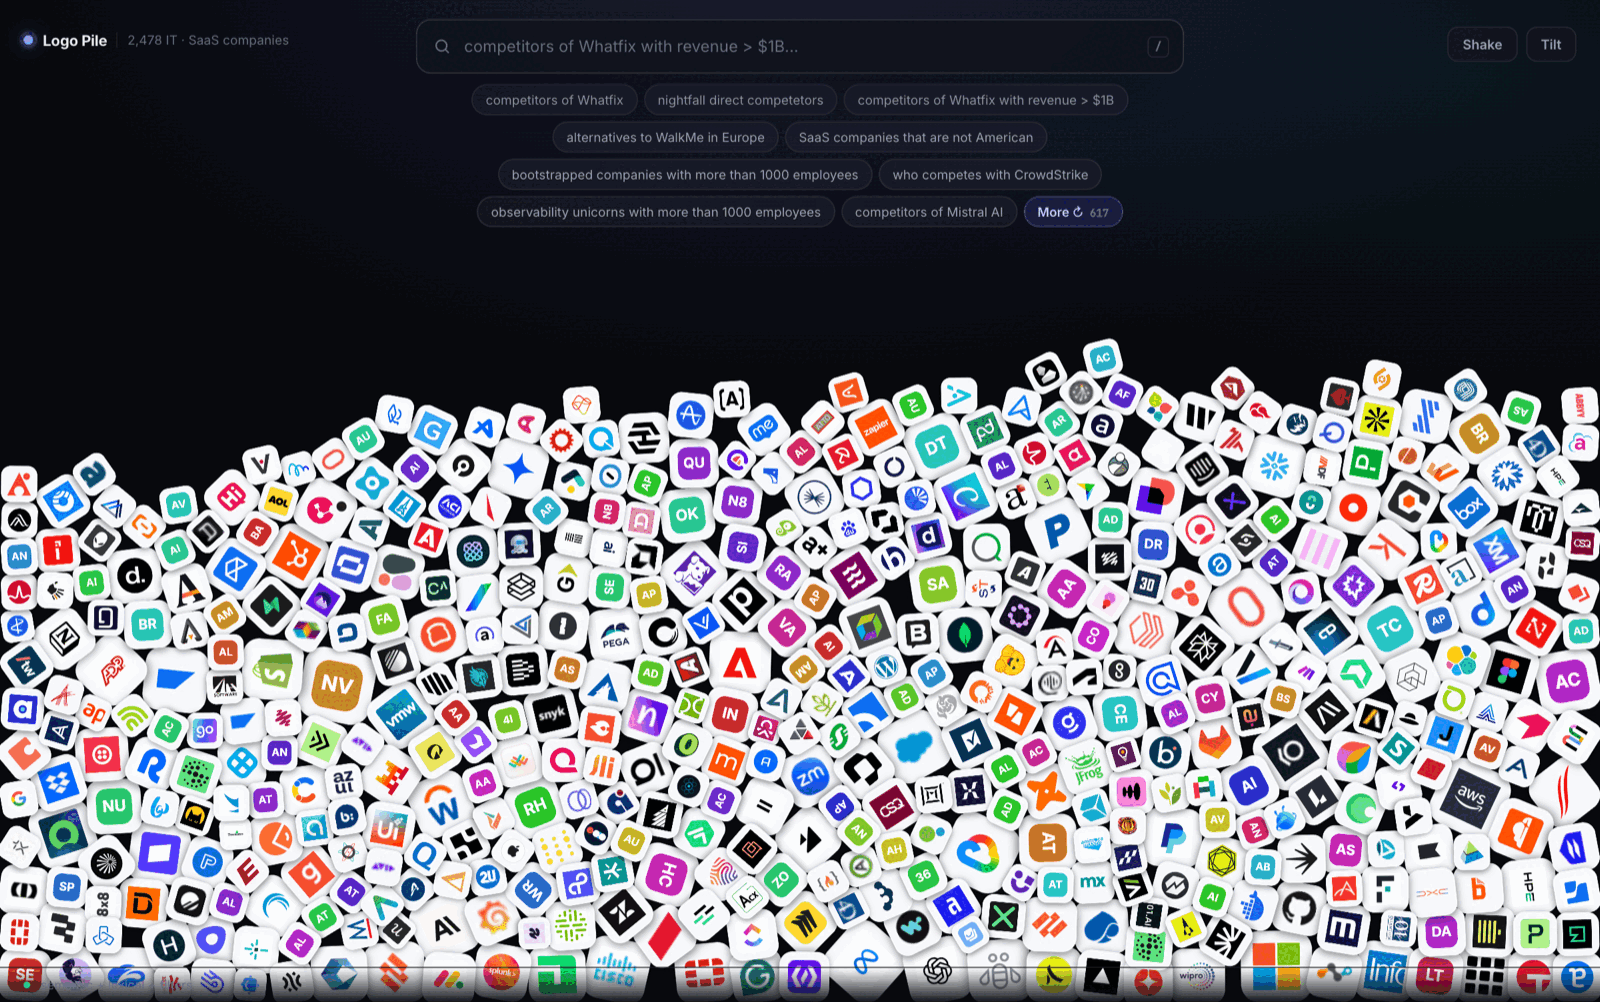
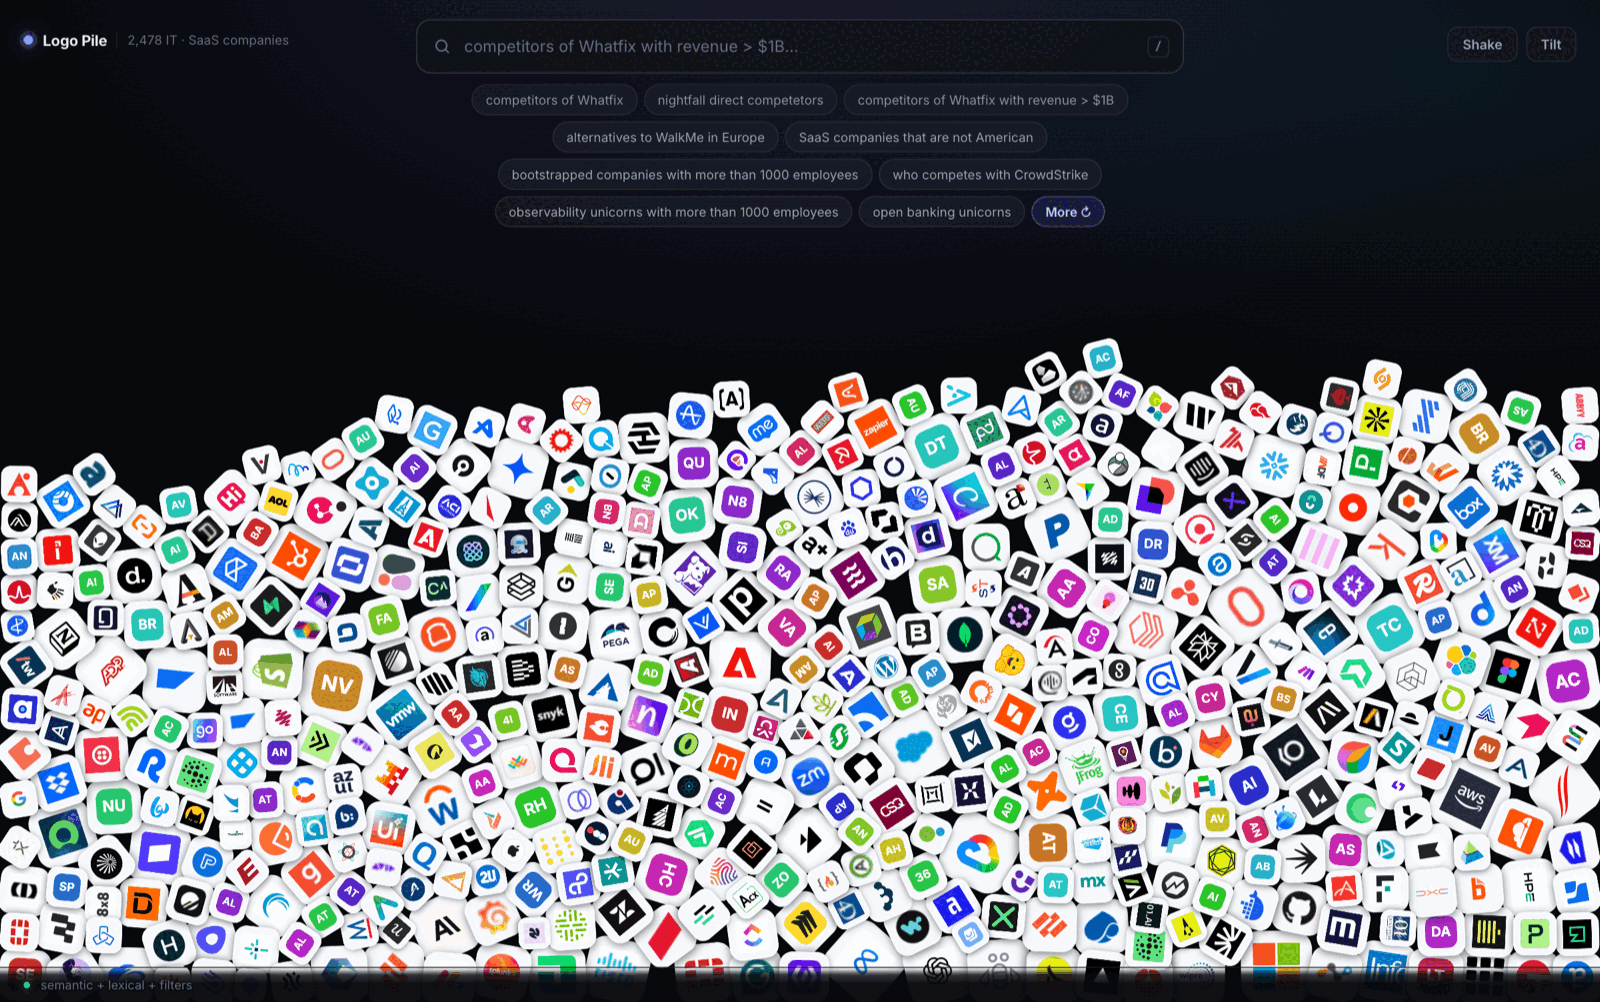
Sink and dim the heap behind results instead of overlapping it
Row two of a result grid landed on top of the pile, so names and scores were
drawn over bright logos and became unreadable.

- The heap is now rendered up to a third of the viewport lower while an answer
  is on screen, easing back when the query clears. The layout asks for up to
  three rows and sinks the pile by however much headroom is missing, so the
  grid never has to overlap. The offset is render-space only — physics never
  sees it, and hit-testing subtracts it, verified by clicking pile tiles at a
  275px displacement and getting the right company back.
- A scrim dims the pile while results are up. 500 bright logos are a lot of
  competition for the fourteen that matter.
- Name and score now share one solid plate per tile rather than floating as
  bare text.
- Status bar needed a near-opaque backdrop; the pile reaches the bottom edge.
- Dropped the suggestion count from the More button.

diff --git a/src/physics/pile.ts b/src/physics/pile.ts
@@ -70,6 +70,14 @@ export class Pile {
   private hovered: string | null = null
   private resultTop = 120
   private resultBottom = 0
+  /**
+   * How far the heap is drawn below its simulated position. Results need
+   * headroom, and the honest way to get it is to move the pile out of the way
+   * rather than draw the grid on top of it. Physics never sees this — it is a
+   * render-space offset, applied to hit-testing too so clicks stay accurate.
+   */
+  private pileOffset = 0
+  private pileOffsetTarget = 0
   private destroyed = false
 
   /** Everything searchable, including companies with no body in the heap. */
@@ -197,13 +205,20 @@ export class Pile {
 
   private tileAt(e: PointerEvent): Tile | null {
     const rect = this.canvas.getBoundingClientRect()
-    const p = { x: e.clientX - rect.left, y: e.clientY - rect.top }
-    // Flying tiles sit on top, so test them first.
-    const order = [...this.tiles].sort((a, b) => b.lift - a.lift)
-    const found = Query.point(order.map((t) => t.body), p)
-    if (!found.length) return null
-    const top = found.sort((a, b) => (this.byId.get(b.label)?.lift ?? 0) - (this.byId.get(a.label)?.lift ?? 0))[0]
-    return this.byId.get(top.label) ?? null
+    const x = e.clientX - rect.left
+    const y = e.clientY - rect.top
+    // Flying tiles are drawn where they are simulated; pile tiles are drawn
+    // `pileOffset` lower, so the pointer has to be lifted back by that much
+    // before testing against their bodies.
+    const flying = this.tiles.filter((t) => t.lift > 0.01)
+    const hitFlying = Query.point(flying.map((t) => t.body), { x, y })
+    if (hitFlying.length) {
+      const best = hitFlying.sort((a, b) => (this.byId.get(b.label)?.lift ?? 0) - (this.byId.get(a.label)?.lift ?? 0))[0]
+      return this.byId.get(best.label) ?? null
+    }
+    const rest = this.tiles.filter((t) => t.lift <= 0.01)
+    const hitPile = Query.point(rest.map((t) => t.body), { x, y: y - this.pileOffset })
+    return hitPile.length ? this.byId.get(hitPile[0].label) ?? null : null
   }
 
   // ----------------------------------------------------------------- api ----
@@ -258,7 +273,10 @@ export class Pile {
       if (t.mode === 'flying' && !flying.has(t.company.id)) this.release(t)
     }
 
-    if (!layout) return
+    if (!layout) {
+      this.pileOffsetTarget = 0
+      return
+    }
 
     hits.slice(0, layout.capacity).forEach((hit, i) => {
       const slot = layout.slots[i]
@@ -281,6 +299,7 @@ export class Pile {
 
   clear() {
     for (const t of this.tiles) if (t.mode === 'flying') this.release(t)
+    this.pileOffsetTarget = 0
   }
 
   /** Shove the pile — used by the shake button and device tilt. */
@@ -341,12 +360,16 @@ export class Pile {
     const rowH = cell * 0.96
     // Clear the search box, filter chips and the "ranking against X" note.
     const top = Math.max(196, this.h * 0.19)
-    // Measure where the heap actually reaches rather than assuming a fraction of
-    // the viewport — the pile got much taller when it grew to 500 bodies, and a
-    // fixed cutoff put the last rows of results inside it.
-    // At least two rows even when the heap is tall — flying tiles draw above the
-    // pile with a glow, so a little overlap reads fine and one lonely row does not.
-    const maxRows = Math.max(2, Math.floor((this.pileTop() - 24 - top) / rowH))
+
+    // Ask for up to three rows, then sink the heap by however much is missing.
+    // Capped so the pile always stays partly on screen — it is the point of the
+    // page, not a backdrop to be shoved off the bottom.
+    const wantRows = Math.min(3, Math.ceil(n / cols))
+    const needed = top + rowH * wantRows + 28
+    const rawTop = this.pileTop()
+    this.pileOffsetTarget = Math.max(0, Math.min(this.h * 0.34, needed - rawTop))
+
+    const maxRows = Math.max(1, Math.floor((rawTop + this.pileOffsetTarget - 28 - top) / rowH))
     const rows = Math.min(Math.ceil(n / cols), maxRows)
     const capacity = Math.min(n, rows * cols)
     const slots: Array<{ x: number; y: number }> = []
@@ -395,6 +418,8 @@ export class Pile {
       }
       t.renderSize += (t.targetSize - t.renderSize) * 0.12
     }
+
+    this.pileOffset += (this.pileOffsetTarget - this.pileOffset) * 0.09
   }
 
   // ------------------------------------------------------------- rendering --
@@ -404,16 +429,33 @@ export class Pile {
     ctx.clearRect(0, 0, this.w, this.h)
 
     const flying = this.tiles.filter((t) => t.lift > 0.01).sort((a, b) => a.rank - b.rank)
-    if (flying.length) this.drawResultBackdrop(ctx)
 
+    // The heap, pushed down out of the results' way.
+    ctx.save()
+    ctx.translate(0, this.pileOffset)
     for (const t of this.tiles) if (t.lift <= 0.01) this.drawTile(ctx, t)
+    ctx.restore()
+
+    // Hold back the pile visually while an answer is on screen: 500 bright logos
+    // are a lot of competition for fourteen that matter.
+    if (flying.length) {
+      const dim = Math.min(1, this.pileOffset / Math.max(1, this.pileOffsetTarget || 1))
+      const g = ctx.createLinearGradient(0, this.resultTop - 40, 0, this.h)
+      g.addColorStop(0, `rgba(8,9,13,${0.62 * dim})`)
+      g.addColorStop(0.45, `rgba(8,9,13,${0.5 * dim})`)
+      g.addColorStop(1, `rgba(8,9,13,${0.34 * dim})`)
+      ctx.fillStyle = g
+      ctx.fillRect(0, this.resultTop - 40, this.w, this.h - this.resultTop + 40)
+      this.drawResultBackdrop(ctx)
+    }
+
     for (const t of flying) this.drawTile(ctx, t)
   }
 
   private drawResultBackdrop(ctx: CanvasRenderingContext2D) {
     const g = ctx.createLinearGradient(0, this.resultTop - 60, 0, this.resultBottom + 40)
     g.addColorStop(0, 'rgba(99,102,241,0.00)')
-    g.addColorStop(0.5, 'rgba(99,102,241,0.055)')
+    g.addColorStop(0.5, 'rgba(99,102,241,0.07)')
     g.addColorStop(1, 'rgba(99,102,241,0.00)')
     ctx.fillStyle = g
     ctx.fillRect(0, this.resultTop - 60, this.w, this.resultBottom - this.resultTop + 100)
@@ -460,32 +502,43 @@ export class Pile {
       ctx.textAlign = 'center'
       ctx.textBaseline = 'middle'
       const label = t.company.name.length > 18 ? t.company.name.slice(0, 17) + '…' : t.company.name
-      const ty = s / 2 + 15
-      ctx.fillStyle = `rgba(233,236,245,${a})`
-      ctx.fillText(label, 0, ty)
-
+      const ty = s / 2 + 16
       const conf = `${t.confidence}%`
+
+      // One solid plate behind the name and the score. Text drawn straight onto
+      // the pile is unreadable the moment a bright logo sits behind it.
+      const nameW = ctx.measureText(label).width
       ctx.font = '700 10px "JetBrains Mono", ui-monospace, monospace'
-      const cw = ctx.measureText(conf).width + 12
-      const cy = ty + 15
-      roundRect(ctx, -cw / 2, cy - 8, cw, 16, 8)
-      ctx.fillStyle = `rgba(99,102,241,${0.22 * a})`
+      const confW = ctx.measureText(conf).width
+      const plateW = Math.max(nameW, 58) + confW + 26
+      const plateH = 22
+      roundRect(ctx, -plateW / 2, ty - plateH / 2, plateW, plateH, 11)
+      ctx.fillStyle = `rgba(13,15,23,${0.9 * a})`
       ctx.fill()
-      ctx.strokeStyle = `rgba(129,140,248,${0.5 * a})`
+      ctx.strokeStyle = `rgba(129,140,248,${0.28 * a})`
       ctx.lineWidth = 1
       ctx.stroke()
-      ctx.fillStyle = `rgba(196,201,255,${a})`
-      ctx.fillText(conf, 0, cy + 1)
+
+      ctx.font = '600 11px Inter, system-ui, sans-serif'
+      ctx.textAlign = 'left'
+      ctx.fillStyle = `rgba(233,236,245,${a})`
+      ctx.fillText(label, -plateW / 2 + 10, ty)
+
+      ctx.font = '700 10px "JetBrains Mono", ui-monospace, monospace'
+      ctx.textAlign = 'right'
+      ctx.fillStyle = `rgba(160,170,255,${a})`
+      ctx.fillText(conf, plateW / 2 - 10, ty + 0.5)
+      ctx.textAlign = 'center'
 
       ctx.beginPath()
-      ctx.arc(-s / 2 + 2, -s / 2 + 2, 9, 0, Math.PI * 2)
+      ctx.arc(-s / 2 + 1, -s / 2 + 1, 9, 0, Math.PI * 2)
       ctx.fillStyle = `rgba(17,18,28,${0.92 * a})`
       ctx.fill()
       ctx.strokeStyle = `rgba(129,140,248,${0.65 * a})`
       ctx.stroke()
       ctx.fillStyle = `rgba(226,229,245,${a})`
       ctx.font = '700 9px "JetBrains Mono", ui-monospace, monospace'
-      ctx.fillText(String(t.rank), -s / 2 + 2, -s / 2 + 3)
+      ctx.fillText(String(t.rank), -s / 2 + 1, -s / 2 + 2)
     }
 
     ctx.restore()

diff --git a/src/styles.css b/src/styles.css
@@ -181,11 +181,7 @@ body {
   font-weight: 600;
 }
 .example-more:hover { background: rgba(99, 102, 241, 0.26); }
-.example-count {
-  font: 600 10px "JetBrains Mono", ui-monospace, monospace;
-  color: var(--text-faint);
-  margin-left: 3px;
-}
+
 
 /* ------------------------------------------------------------------- chips */
 
@@ -400,7 +396,10 @@ body {
   font-size: 11.5px;
   color: var(--text-faint);
   border-top: 1px solid var(--line);
-  background: linear-gradient(to top, rgba(8, 9, 13, 0.95), rgba(8, 9, 13, 0));
+  /* The pile reaches the bottom edge, so this needs to be opaque enough to read
+     against 500 bright logos, not a soft fade. */
+  background: linear-gradient(to top, rgba(8, 9, 13, 0.97) 55%, rgba(8, 9, 13, 0.82) 80%, rgba(8, 9, 13, 0));
+  text-shadow: 0 1px 3px rgba(0, 0, 0, 0.9);
   pointer-events: none;
   z-index: 5;
 }

diff --git a/src/ui/SearchBar.tsx b/src/ui/SearchBar.tsx
@@ -78,9 +78,9 @@ export function SearchBar({
           <button
             className="example example-more"
             onClick={() => setPage((p) => p + 1)}
-            title={`${suggestions.length} suggestions available`}
+            title="Show a different set of suggestions"
           >
-            More ↻ <span className="example-count">{suggestions.length}</span>
+            More ↻
           </button>
         </div>
       )}

diff --git a/README.md b/README.md
@@ -43,7 +43,7 @@ Paste any of these into the [live demo](https://rehmanalimomin.github.io/logopil
 | `SaaS companies that are not American` | negation, which used to invert the filter |
 | `bootstrapped companies with more than 1000 employees` | a pure-filter query with no search terms at all |
 
-Or press **More ↻** under the search box to page through all **617** of them.
+Or press **More ↻** under the search box to page through the rest — there are over 600.
 
 Everything runs in your browser. No key, no server, no signup.
 
@@ -194,8 +194,16 @@ are moved by a critically-damped spring integrated outside Matter. Physics for t
 deterministic easing for the answer; letting gravity and neighbours near the result grid
 turns it into a jostling mess.
 
-Tiles are sized by `log10(valuation)`, so the pile has visual hierarchy even at rest, and
-only as many results fly as fit above the measured top of the heap — the rest stay in the rail.
+**The heap sinks to make room.** Results need headroom, and the honest way to get it is to
+move the pile rather than draw the grid on top of it: when an answer comes up, the heap is
+rendered up to a third of the viewport lower and dimmed behind a scrim, then eases back when
+the query clears. Physics never sees the offset — it is applied at draw time, and to
+hit-testing too, so clicks stay accurate while the pile is displaced.
+
+Each flying tile carries its name and score on one solid plate. Text drawn straight over the
+pile is unreadable the moment a bright logo lands behind it.
+
+Tiles are sized by `log10(valuation)`, so the pile has visual hierarchy even at rest.
 
 Every tile is a **pre-baked sprite** (rounded plate + drop shadow + logo, drawn once to an
 offscreen canvas and blitted thereafter). Re-drawing 500 rounded rects with `shadowBlur`
